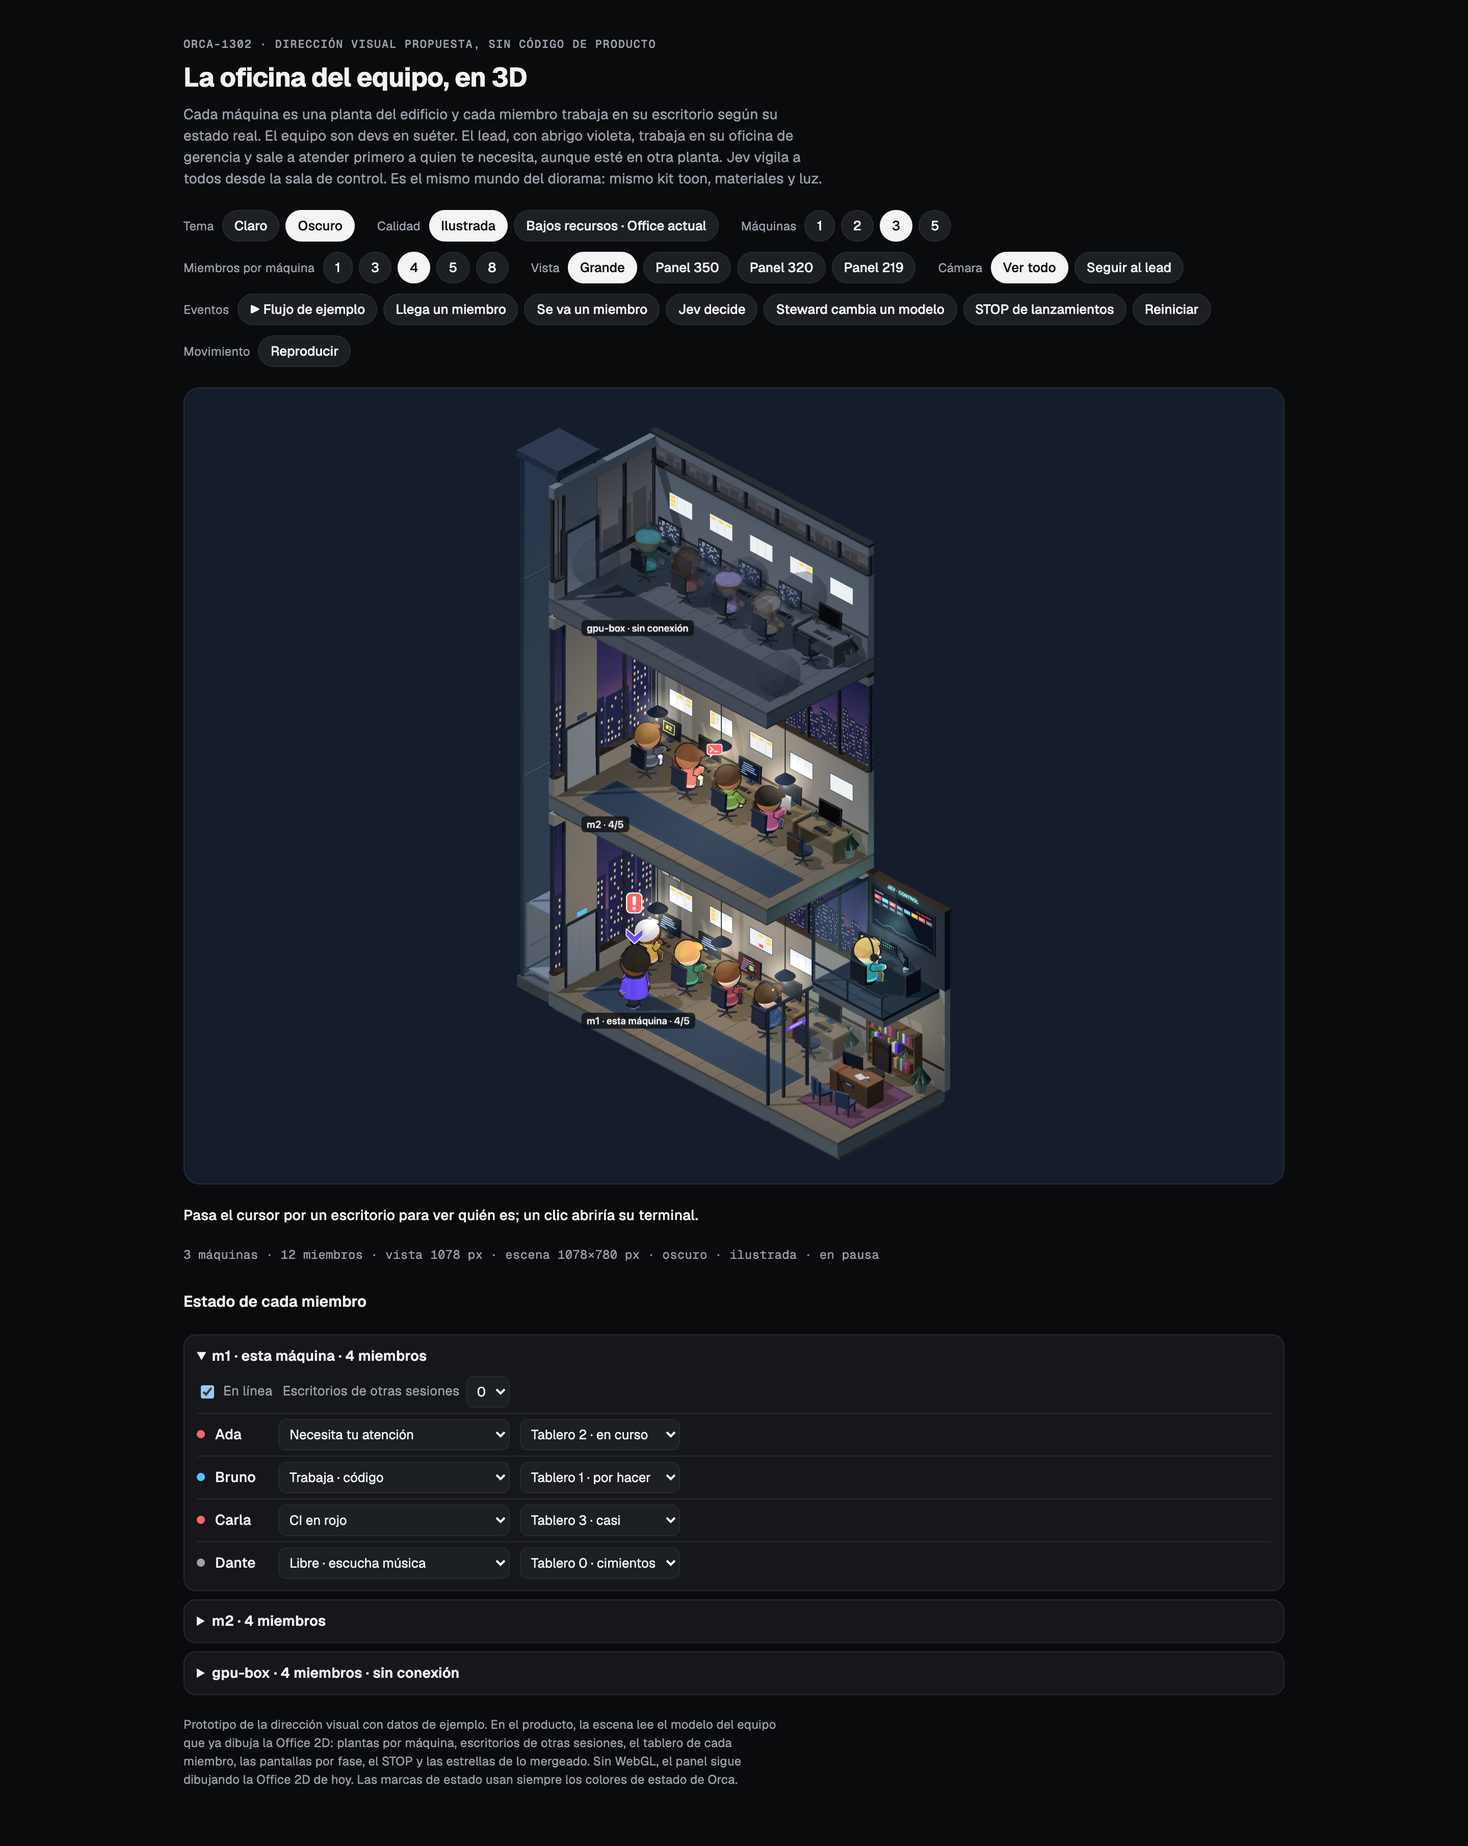
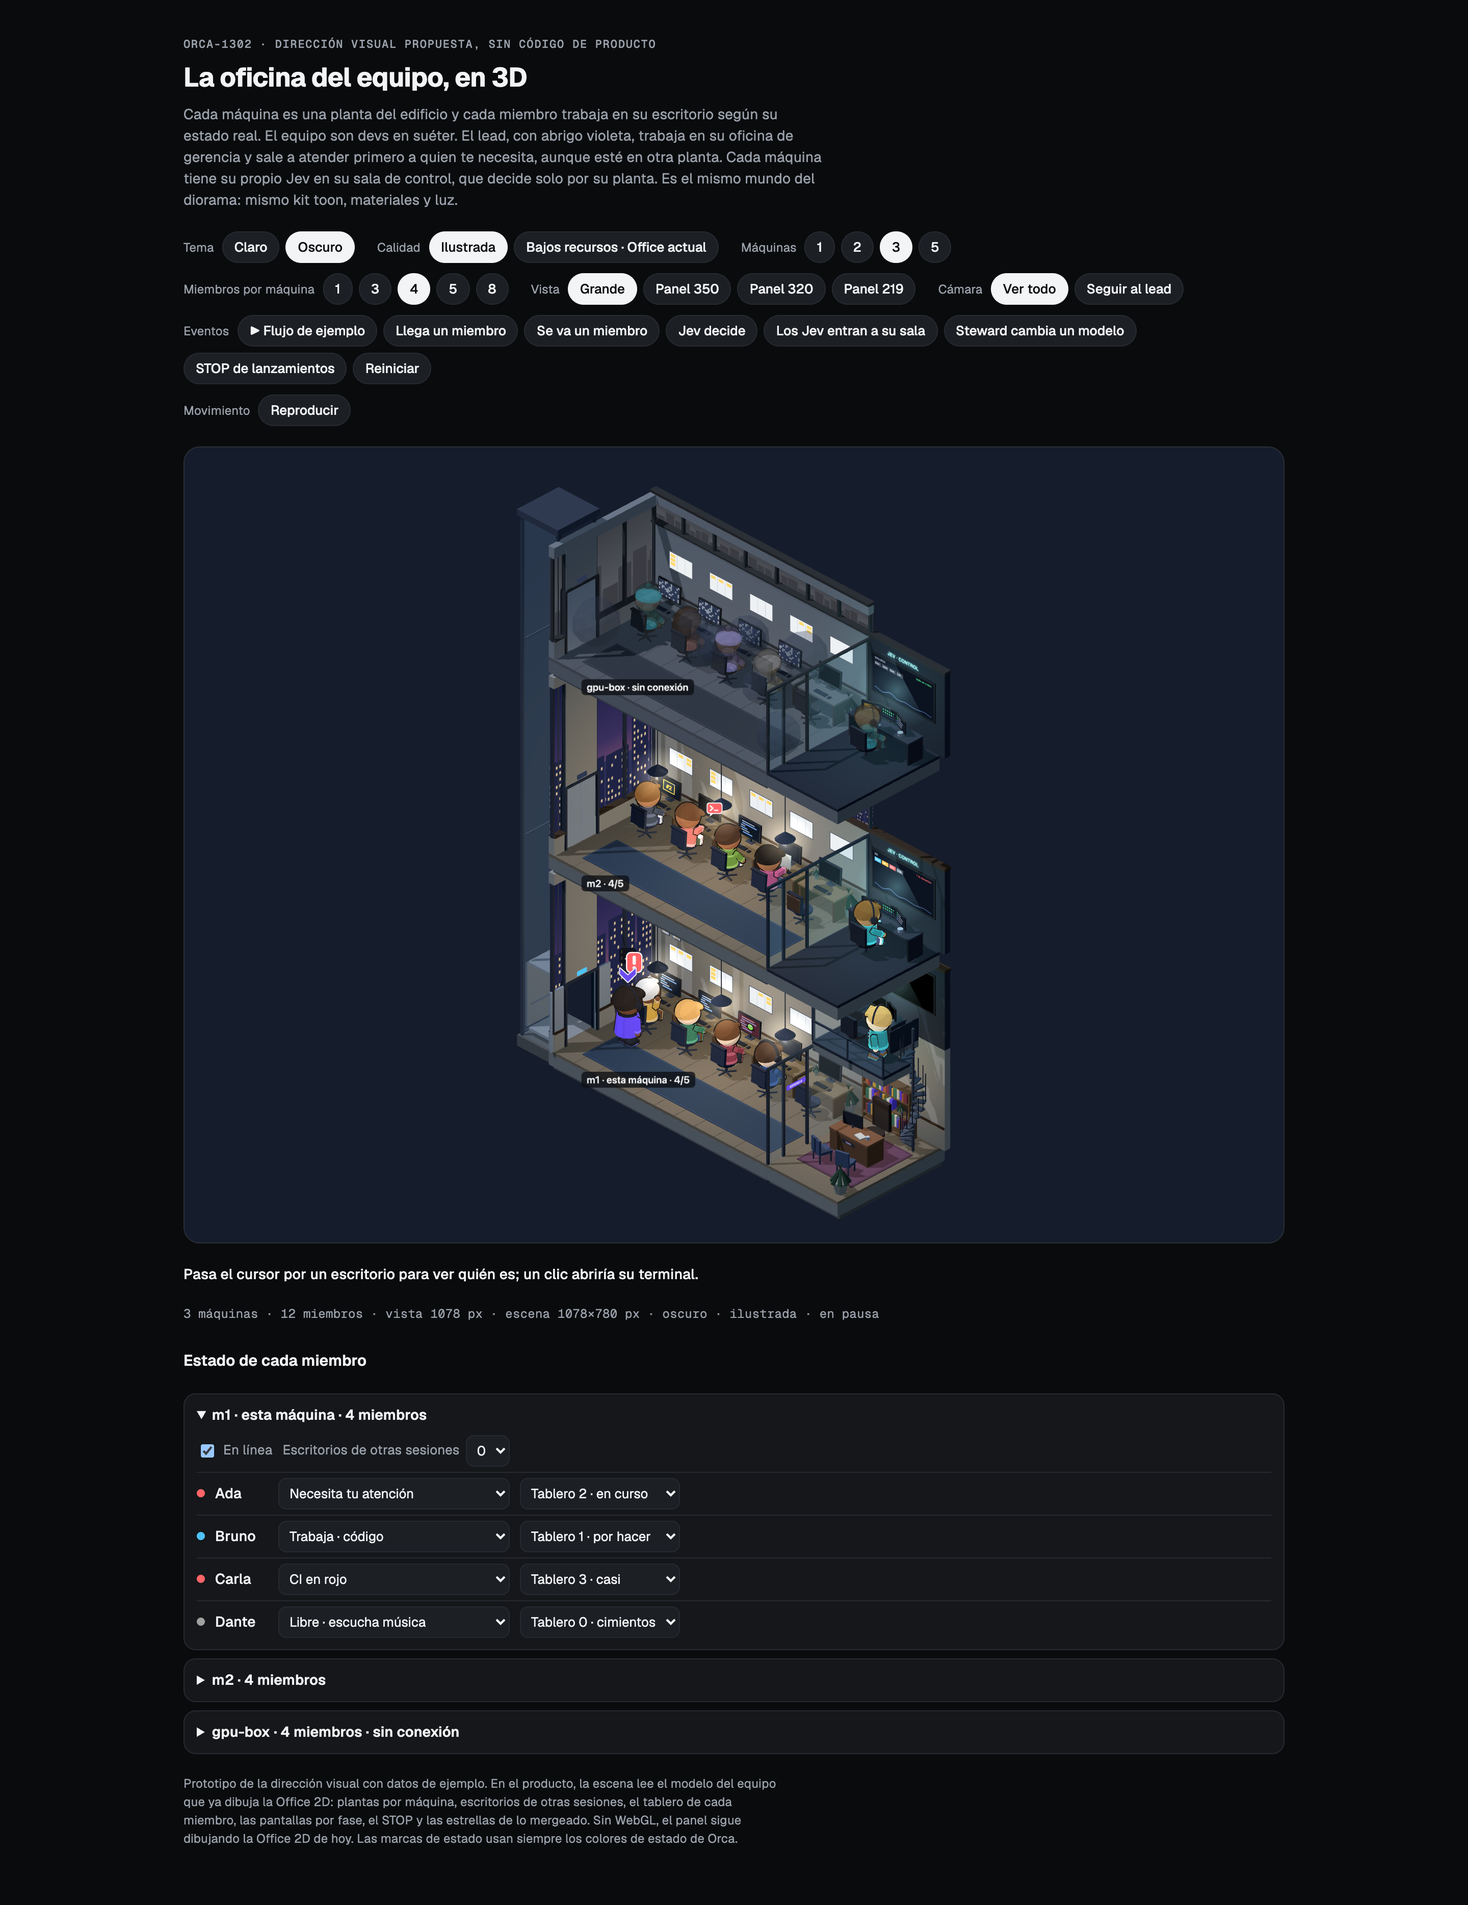
evidence(ORCA-1302): one Jev per machine, each in its own floor's control room

Changed region(s): [[0.125, 0.0312, 0.875, 0.8112], [0.125, 0.8424, 0.5, 0.9671], [0.3438, 0.78, 0.4375, 0.8736]]

diff --git a/prototype/office-3d-orca-1302.html b/prototype/office-3d-orca-1302.html
@@ -103,7 +103,7 @@ h2 { margin: 6px 0 0; font-size: 15px; font-weight: 600; }
   <header>
     <div class="eyebrow">ORCA-1302 · dirección visual propuesta, sin código de producto</div>
     <h1>La oficina del equipo, en 3D</h1>
-    <p class="lede">Cada máquina es una planta del edificio y cada miembro trabaja en su escritorio según su estado real. El equipo son devs en suéter. El lead, con abrigo violeta, trabaja en su oficina de gerencia y sale a atender primero a quien te necesita, aunque esté en otra planta. Jev vigila a todos desde la sala de control. Es el mismo mundo del diorama: mismo kit toon, materiales y luz.</p>
+    <p class="lede">Cada máquina es una planta del edificio y cada miembro trabaja en su escritorio según su estado real. El equipo son devs en suéter. El lead, con abrigo violeta, trabaja en su oficina de gerencia y sale a atender primero a quien te necesita, aunque esté en otra planta. Cada máquina tiene su propio Jev en su sala de control, que decide solo por su planta. Es el mismo mundo del diorama: mismo kit toon, materiales y luz.</p>
   </header>
 
   <div class="controls" role="group" aria-label="Controles">
@@ -143,7 +143,7 @@ h2 { margin: 6px 0 0; font-size: 15px; font-weight: 600; }
       <button class="chip" id="e-arrive">Llega un miembro</button>
       <button class="chip" id="e-leave">Se va un miembro</button>
       <button class="chip" id="e-jev">Jev decide</button>
-      <button class="chip" id="e-jev-in">Jev entra a su sala</button>
+      <button class="chip" id="e-jev-in">Los Jev entran a su sala</button>
       <button class="chip" id="e-steward">Steward cambia un modelo</button>
       <button class="chip" id="e-stop" aria-pressed="false">STOP de lanzamientos</button>
       <button class="chip" id="e-reset">Reiniciar</button>
@@ -1516,7 +1516,7 @@ h2 { margin: 6px 0 0; font-size: 15px; font-weight: 600; }
   }
 
   // ---------- the scene ----------
-  let OFFX = null, sun = null, jevSeat = null, steward = null, leadMark = null
+  let OFFX = null, sun = null, jevs = [], steward = null, leadMark = null
   function leadMarkTex() {
     const { g, tex } = canvasTex(128, 128)
     g.lineJoin = 'round'; g.lineWidth = 14; g.strokeStyle = '#ffffff'; g.fillStyle = '#6c4cf0'
@@ -1602,28 +1602,36 @@ h2 { margin: 6px 0 0; font-size: 15px; font-weight: 600; }
   const CR_W = AW
   // Why the back corner, through a hatch: in front of the office the stair hid the lead's desk.
   const STAIR = { x: AW - 0.6, z: 0.85, r: 0.5, hx: AW - 1.15, hz: 1.6 }
-  function controlRoom(fl) {
-    const { XX } = fl, g = new T.Group(); g.position.set(fl.W, LV, 0); world.add(g)
-    // Why half deep: a balcony over the back of the office leaves its front open, so the lead's desk shows.
-    const cx = CR_W / 2, WH = Math.min(H + 0.3, PITCH - 0.86 - LV), night = tod === 'night', CRD = 3.1
+  // Each machine's Jev has its own control room: Jev is a plugin hook per session, not one shared instance.
+  // On the lead's floor it is a balcony over the lead's office; on any other floor, a room at floor level.
+  function controlRoom(fl, ground) {
+    const { XX } = fl, BY = ground ? fl.y : LV, g = new T.Group(); g.position.set(fl.W, BY, 0); world.add(g)
+    // Why half deep on the lead's floor: a balcony over the back of the office leaves the lead's desk in view.
+    const cx = CR_W / 2, WH = ground ? H + 0.3 : Math.min(H + 0.3, PITCH - 0.86 - LV), night = tod === 'night', CRD = ground ? D : 3.1
     const floorM = M(night ? 0x222833 : 0x3e4858)
-    for (const [x0, x1, z0, z1] of [[0, STAIR.hx, 0, CRD], [STAIR.hx, CR_W, STAIR.hz, CRD]]) {
+    const slabs = ground ? [[0, CR_W, 0, CRD]] : [[0, STAIR.hx, 0, CRD], [STAIR.hx, CR_W, STAIR.hz, CRD]]
+    for (const [x0, x1, z0, z1] of slabs) {
       mesh(box(x1 - x0, 0.14, z1 - z0), floorM, (x0 + x1) / 2, -0.07, (z0 + z1) / 2, g).castShadow = false
-      mesh(box(x1 - x0, 0.3, z1 - z0), M(XX.slab), (x0 + x1) / 2, -0.29, (z0 + z1) / 2, g).castShadow = false
+      mesh(box(x1 - x0, ground ? 0.55 : 0.3, z1 - z0), M(XX.slab), (x0 + x1) / 2, ground ? -0.41 : -0.29, (z0 + z1) / 2, g).castShadow = false
     }
     // a rail round the hatch, open on the side the stair comes out of
-    mesh(box(0.05, 0.9, STAIR.hz), M(XX.frame), STAIR.hx, 0.45, STAIR.hz / 2, g)
+    if (!ground) mesh(box(0.05, 0.9, STAIR.hz), M(XX.frame), STAIR.hx, 0.45, STAIR.hz / 2, g)
     mesh(box(CR_W + 0.3, WH, 0.3), M(night ? 0x262c37 : 0x39414e), cx + 0.15, WH / 2, -0.15, g)
     mesh(box(CR_W + 0.34, 0.12, 0.34), M(XX.trim), cx + 0.15, WH + 0.06, -0.15, g)
     const glassM = new T.MeshStandardMaterial({ color: lin(0xbfe0f0), transparent: true, opacity: 0.2, roughness: 0.1, depthWrite: false })
-    const p = new T.Mesh(box(0.05, WH - 0.2, CRD), glassM); p.position.set(0.02, (WH - 0.2) / 2, CRD / 2); g.add(p)
+    // glass to the office; at floor level it has a door, where Jev walks in
+    for (const [z0, z1] of ground ? [[0, 3.4], [4.7, CRD]] : [[0, CRD]]) {
+      const p = new T.Mesh(box(0.05, WH - 0.2, z1 - z0), glassM); p.position.set(0.02, (WH - 0.2) / 2, (z0 + z1) / 2); g.add(p)
+    }
     mesh(box(0.1, 0.1, CRD), M(XX.frame), 0.02, WH - 0.15, CRD / 2, g)
-    for (const z of [0.05, CRD - 0.05]) mesh(box(0.1, WH - 0.1, 0.1), M(XX.frame), 0.02, (WH - 0.1) / 2, z, g)
+    for (const z of ground ? [0.05, 3.4, 4.7, CRD - 0.05] : [0.05, CRD - 0.05]) mesh(box(0.1, WH - 0.1, 0.1), M(XX.frame), 0.02, (WH - 0.1) / 2, z, g)
     // a glass rail along the balcony's edge
-    const RL = CR_W
+    const RL = ground ? 0 : CR_W
+    if (RL) {
     const rail = new T.Mesh(box(RL, 0.9, 0.04), glassM); rail.position.set(RL / 2, 0.45, CRD); g.add(rail)
     mesh(box(RL, 0.06, 0.08), M(XX.frame), RL / 2, 0.92, CRD, g)
     for (const x of [0.05, RL / 2, RL]) mesh(box(0.06, 0.92, 0.06), M(XX.frame), x, 0.46, CRD, g)
+    }
     // the video wall and its sign
     mesh(box(3.5, 1.85, 0.06), M(0x15181e), cx, 2.3, 0.01, g)
     const vw = canvasTex(400, 200)
@@ -1633,10 +1641,10 @@ h2 { margin: 6px 0 0; font-size: 15px; font-weight: 600; }
     sg.g.shadowColor = '#5ee0e0'; sg.g.shadowBlur = 12; sg.g.fillStyle = '#c9fbfb'; sg.g.fillText('JEV · CONTROL', 128, 26)
     const sign = new T.Mesh(new T.PlaneGeometry(1.9, 0.36), new T.MeshBasicMaterial({ map: sg.tex, transparent: true })); sign.position.set(cx, 3.5, 0.05); g.add(sign)
     // the console: one long desk and three monitors turned toward the chair
-    const kx = STAIR.hx / 2 + 0.05
-    mesh(box(STAIR.hx - 0.3, 0.08, 0.85), M(0x2f3540), kx, 0.98, 1.0, g)
-    for (const dx of [-1, 1]) mesh(box(0.08, 0.94, 0.8), M(0x232831), kx + dx * (STAIR.hx / 2 - 0.2), 0.47, 1.0, g)
-    mesh(box(STAIR.hx - 0.4, 0.5, 0.05), M(0x232831), kx, 0.68, 0.6, g)
+    const cw = ground ? CR_W - 0.3 : STAIR.hx, kx = ground ? cx : STAIR.hx / 2 + 0.05
+    mesh(box(cw - 0.3, 0.08, 0.85), M(0x2f3540), kx, 0.98, 1.0, g)
+    for (const dx of [-1, 1]) mesh(box(0.08, 0.94, 0.8), M(0x232831), kx + dx * (cw / 2 - 0.2), 0.47, 1.0, g)
+    mesh(box(cw - 0.4, 0.5, 0.05), M(0x232831), kx, 0.68, 0.6, g)
     const screens = []
     ;[[-0.8, 0.38, 'checks'], [0, 0, 'tests'], [0.8, -0.38, 'plan']].forEach(([dx, ry, spec]) => {
       const m = new T.Group(); m.position.set(kx + dx, 1.42, 0.82 + Math.abs(dx) * 0.18); m.rotation.y = ry; g.add(m)
@@ -1654,6 +1662,8 @@ h2 { margin: 6px 0 0; font-size: 15px; font-weight: 600; }
     mesh(box(0.8, 0.82, 0.12), M(0x1f2430), 0, 1.04, 0.42, ch)
     mesh(new T.CylinderGeometry(0.05, 0.05, 0.4, 8), M(XX.metal), 0, 0.26, 0, ch)
     if (night) { const pl = new T.PointLight(0x5ee0e0, 0.9, 7, 1.6); pl.position.set(cx, 2.6, 1.6); g.add(pl); glow(g, cx, 2.3, 0.4, 0x5ee0e0, 3.2, 0.35) }
+    const at = (lx, lz, y) => [fl.W + lx, y, lz]
+    if (ground) return { g, fm: fl.m, y: BY, chairAt, vw, screens, drawn: 0, path: [at(-1.2, 4.05, BY), at(-0.35, 4.05, BY), at(kx + 0.3, 2.9, BY), [chairAt[0], BY, chairAt[1]]] }
     // the spiral stair, from the office floor up to the balcony, and Jev's way in
     const st = new T.Group(); st.position.set(fl.W + STAIR.x, 0, STAIR.z); world.add(st)
     mesh(new T.CylinderGeometry(0.06, 0.06, LV + 1.0, 8), M(XX.metal), 0, (LV + 1.0) / 2, 0, st)
@@ -1664,11 +1674,10 @@ h2 { margin: 6px 0 0; font-size: 15px; font-weight: 600; }
       step.rotation.y = a - Math.PI / 2
       mesh(new T.CylinderGeometry(0.02, 0.02, 0.9, 6), M(XX.frame), Math.sin(a) * STAIR.r, y + 0.45, Math.cos(a) * STAIR.r, st)
     }
-    const at = (lx, lz, y) => [fl.W + lx, y, lz]
     const path = [at(-0.35, 4.05, 0), at(0.55, 4.05, 0), at(0.55, 1.15, 0), at(STAIR.x - STAIR.r * 0.7, 1.15, 0)]
     for (let k = 1; k <= 12; k++) { const a = -Math.PI / 2 + (k / 12) * Math.PI * 2.5; path.push(at(STAIR.x + Math.sin(a) * STAIR.r * 0.7, STAIR.z + Math.cos(a) * STAIR.r * 0.7, (k / 12) * LV)) }
     path.push(at(STAIR.x, 1.95, LV), at(kx + 0.3, 2.5, LV), [chairAt[0], LV, chairAt[1]])
-    return { g, chairAt, vw, screens, drawn: 0, path }
+    return { g, fm: fl.m, y: BY, chairAt, vw, screens, drawn: 0, path }
   }
   // The wall: one tile per member on every floor, in Orca's status colours.
   const statusCss = (m, online) => {
@@ -1684,8 +1693,8 @@ h2 { margin: 6px 0 0; font-size: 15px; font-weight: 600; }
     const g = cr.vw.g, W_ = 400, H_ = 200
     g.fillStyle = '#0b1220'; g.fillRect(0, 0, W_, H_)
     g.fillStyle = '#a8b4c8'; g.font = '600 15px Geist, sans-serif'; g.textBaseline = 'middle'; g.textAlign = 'left'
-    g.fillText('EQUIPO', 14, 16)
-    const all = model.floors.flatMap((f) => f.members.map((m) => [m, f.online]))
+    g.fillText(cr.fm.host.name.toUpperCase(), 14, 16)
+    const all = cr.fm.members.map((m) => [m, cr.fm.online])
     const asking = all.filter(([m, on]) => on && stateOf(m).act === 'ask').length
     g.textAlign = 'right'; g.fillStyle = asking ? css(P.attention) : '#4ade80'; g.fillText(asking ? asking + ' te necesitan' : 'todo en orden', W_ - 14, 16); g.textAlign = 'left'
     const cols = 8, tw = 42, th = 22, gap = 6, x0 = 14, y0 = 32
@@ -1752,14 +1761,16 @@ h2 { margin: 6px 0 0; font-size: 15px; font-weight: 600; }
       bubble.position.set(p.x, p.y + 2.85 + leadMark.scale.y, p.z)
     })
 
-    // Jev: the advisor sits in a control room over the lead's office, watching every desk on its wall
-    if (model.advisor) {
-      const cr = controlRoom(floors[0])
-      const u = actor(1, { role: 'advisor' })
-      jevSeat = { u, cr, at: cr.chairAt, line: chip('Jev · vigila', P), sayUntil: 0 }
+    // One Jev per machine, each in its own control room, watching and deciding only for its own floor
+    jevs = []
+    if (model.advisor) floors.forEach((fl) => {
+      const cr = controlRoom(fl, fl.i !== 0)
+      const u = actor(1 + fl.i * 7, { role: 'advisor' })
+      const jevSeat = { u, cr, fl, at: cr.chairAt, line: chip('Jev · vigila', P), sayUntil: 0 }
+      jevs.push(jevSeat)
       jevSeat.line.center.set(0.5, 0); world.add(jevSeat.line)
       const jh = new T.Mesh(box(0.9, 1.8, 0.9), new T.MeshBasicMaterial({ visible: false })); jh.position.y = 0.8; u.g.add(jh)
-      jh.userData.who = { name: 'Jev', role: 'advisor' }; hits.push(jh)
+      jh.userData.who = { name: 'Jev · ' + fl.m.host.name, role: 'advisor' }; hits.push(jh)
       // Jev walks in: through the lead's office door, up the spiral stair, to the console
       const legs = cr.path.slice(1).map((b, k) => { const a = cr.path[k]; return { a, b, len: Math.hypot(b[0] - a[0], b[1] - a[1], b[2] - a[2]) } })
       const walkDur = legs.reduce((n, l) => n + l.len, 0) / 1.5
@@ -1778,12 +1789,13 @@ h2 { margin: 6px 0 0; font-size: 15px; font-weight: 600; }
         const speaking = tt < jevSeat.sayUntil
         u.yaw = Math.PI - 0.35; u.g.rotation.y = u.yaw
         seatedPose(u, speaking ? 'give' : 'type', tt)
-        u.g.position.set(jevSeat.at[0], LV + 0.58 - 0.34 * SIT_SCALE, jevSeat.at[1])
+        setGhost(u, !fl.online)
+        u.g.position.set(jevSeat.at[0], cr.y + 0.58 - 0.34 * SIT_SCALE, jevSeat.at[1])
         jevSeat.line.visible = speaking
-        jevSeat.line.position.set(jevSeat.at[0], LV + 3.3, jevSeat.at[1])
+        jevSeat.line.position.set(jevSeat.at[0], cr.y + 3.3, jevSeat.at[1])
         if (!cr.drawn || tt - cr.drawn > 0.4) { cr.drawn = tt; drawWall(cr, tt) }
       })
-    } else jevSeat = null
+    })
     steward = null
 
     animators.push((tt) => walkers.forEach((w) => tickWalker(w, tt)))
@@ -1849,17 +1861,19 @@ h2 { margin: 6px 0 0; font-size: 15px; font-weight: 600; }
 
   // ---------- Jev and the steward ----------
   function jevDecides() {
-    if (!jevSeat) return say('Jev está apagado en este proyecto.')
-    const seats = floors[0].seats.filter((s) => s.m && s.mode === 'seated')
-    if (!seats.length) return say('No hay nadie en la planta del lead.')
+    if (!jevs.length) return say('Jev está apagado en este proyecto.')
+    // a member on any machine that is online; its own floor's Jev decides, nobody rides the lift
+    const seats = allSeats().filter((s) => s.m && s.mode === 'seated' && s.fl.online)
+    if (!seats.length) return say('No hay nadie en una máquina en línea.')
     const s = seats[Math.floor(rnd() * seats.length)]
+    const jevSeat = jevs.find((j) => j.fl === s.fl)
     const tones = [['aprueba «Edit» de', P.success], ['pregunta por', P.warning], ['frena un «rm» de', P.attention]]
     const [verb, hex] = tones[Math.floor(rnd() * 3)]
     jevSeat.line.material.map.dispose()
     const c = chip(`Jev · ${verb} ${s.m.name}`, P); jevSeat.line.material = c.material; jevSeat.line.scale.copy(c.scale)
     jevSeat.sayUntil = t + 4.2
     jevSeat.look = [s.x - jevSeat.at[0], SIT_Z - jevSeat.at[1]]
-    verdictFlight(new T.Vector3(jevSeat.at[0], LV + 2.4, jevSeat.at[1]), s, hex)
+    verdictFlight(new T.Vector3(jevSeat.at[0], jevSeat.cr.y + 2.4, jevSeat.at[1]), s, hex)
   }
   function stewardVisits() {
     const seats = allSeats().filter((s) => s.m && s.mode === 'seated' && s.fl.online && stateOf(s.m).act === 'work')
@@ -1959,7 +1973,7 @@ h2 { margin: 6px 0 0; font-size: 15px; font-weight: 600; }
     return hit ? { seat: hit.object.userData.seat || null, who: hit.object.userData.who || null, x: e.clientX - r.left, y: e.clientY - r.top } : null
   }
   function describe(h) {
-    if (h.who) return [h.who.name, h.who.role === 'lead' ? 'Trabaja desde su oficina de gerencia y sale a atender a quien te necesita' : 'Advisor · sala de control: decide permisos y avisa']
+    if (h.who) return [h.who.name, h.who.role === 'lead' ? 'Trabaja desde su oficina de gerencia y sale a atender a quien te necesita' : 'Advisor de esta máquina: decide los permisos de su planta']
     const s = h.seat
     if (s.kind === 'taken') return ['Escritorio de otra sesión', `${s.fl.m.host.label} · por eso la máquina está llena`]
     if (s.kind === 'free') return ['Escritorio libre', `${s.fl.m.host.label} · cabe otro miembro`]
@@ -2068,7 +2082,7 @@ h2 { margin: 6px 0 0; font-size: 15px; font-weight: 600; }
     leave(t, s[s.length - 1]); sync()
   })
   $('e-jev').addEventListener('click', () => { playing = true; jevDecides() })
-  $('e-jev-in').addEventListener('click', () => { playing = true; if (jevSeat) jevSeat.enterAt = t })
+  $('e-jev-in').addEventListener('click', () => { playing = true; jevs.forEach((j) => { j.enterAt = t }) })
   $('e-steward').addEventListener('click', () => { playing = true; stewardVisits() })
   $('e-stop').addEventListener('click', () => { model.stopped = !model.stopped; stopSigns.forEach((s) => { s.visible = model.stopped }); sync() })
   $('e-reset').addEventListener('click', () => { flow = null; model = makeModel(); build(); sync() })

diff --git a/orca-1302-design/README.md b/orca-1302-design/README.md
@@ -20,6 +20,14 @@ the prototype.
   renderer unchanged. The prototype's toggle says so and draws nothing.
 - **Accents fixed:** the file now declares UTF-8.
 
+## Owner's answer: one Jev per machine (2026-11-20)
+
+Jev is installed as a plugin on each machine, so it is not one shared Jev. Every floor has its own control room and its
+own Jev, who decides only for that floor's members; no Jev rides the lift. On the lead's floor the control room is
+the balcony over the lead's office; on every other floor it is a room at floor level beside the desks. Each room's
+wall shows only that machine's members. An offline machine's Jev is drawn faded like its members.
+Captures re-taken: `office-1440-*` and `office-390-*`, plus `moments/jev-per-floor-1440-{light,dark}.png`.
+
 ## What it shows, against today's 2D Office
 
 | 2D Office today | 3D prototype (Illustrated) |
@@ -37,7 +45,7 @@ the prototype.
 | Holds: limited, asleep, loggedOut, unreachable, queued, starting | Hourglass, standby + zz, lock, static + faded, clock with empty chair, boot bar |
 | Emotes: alert, prompt, check, star, heart, blocked | Same marks in Orca's status colours |
 | Lead rounds, attends who needs you, rides to other floors | Lead works in its office, walks out to whoever needs you first, rides the elevator, hands work round |
-| Jev decisions, verdict flights | Jev at the control-room console; speaks and sends a plane in the verdict's colour |
+| Jev decisions, verdict flights | Each floor's Jev at its own console; speaks and sends a plane in the verdict's colour to its own floor |
 | Steward model change | Steward (a dev with a tablet) appears beside the member and says the pick |
 | Arrivals / departures | New member rides the elevator and walks to a free desk; a leaving one walks back and vanishes |
 | Hover label and click target | Hover shows name + state + host; click says which terminal it would open |
